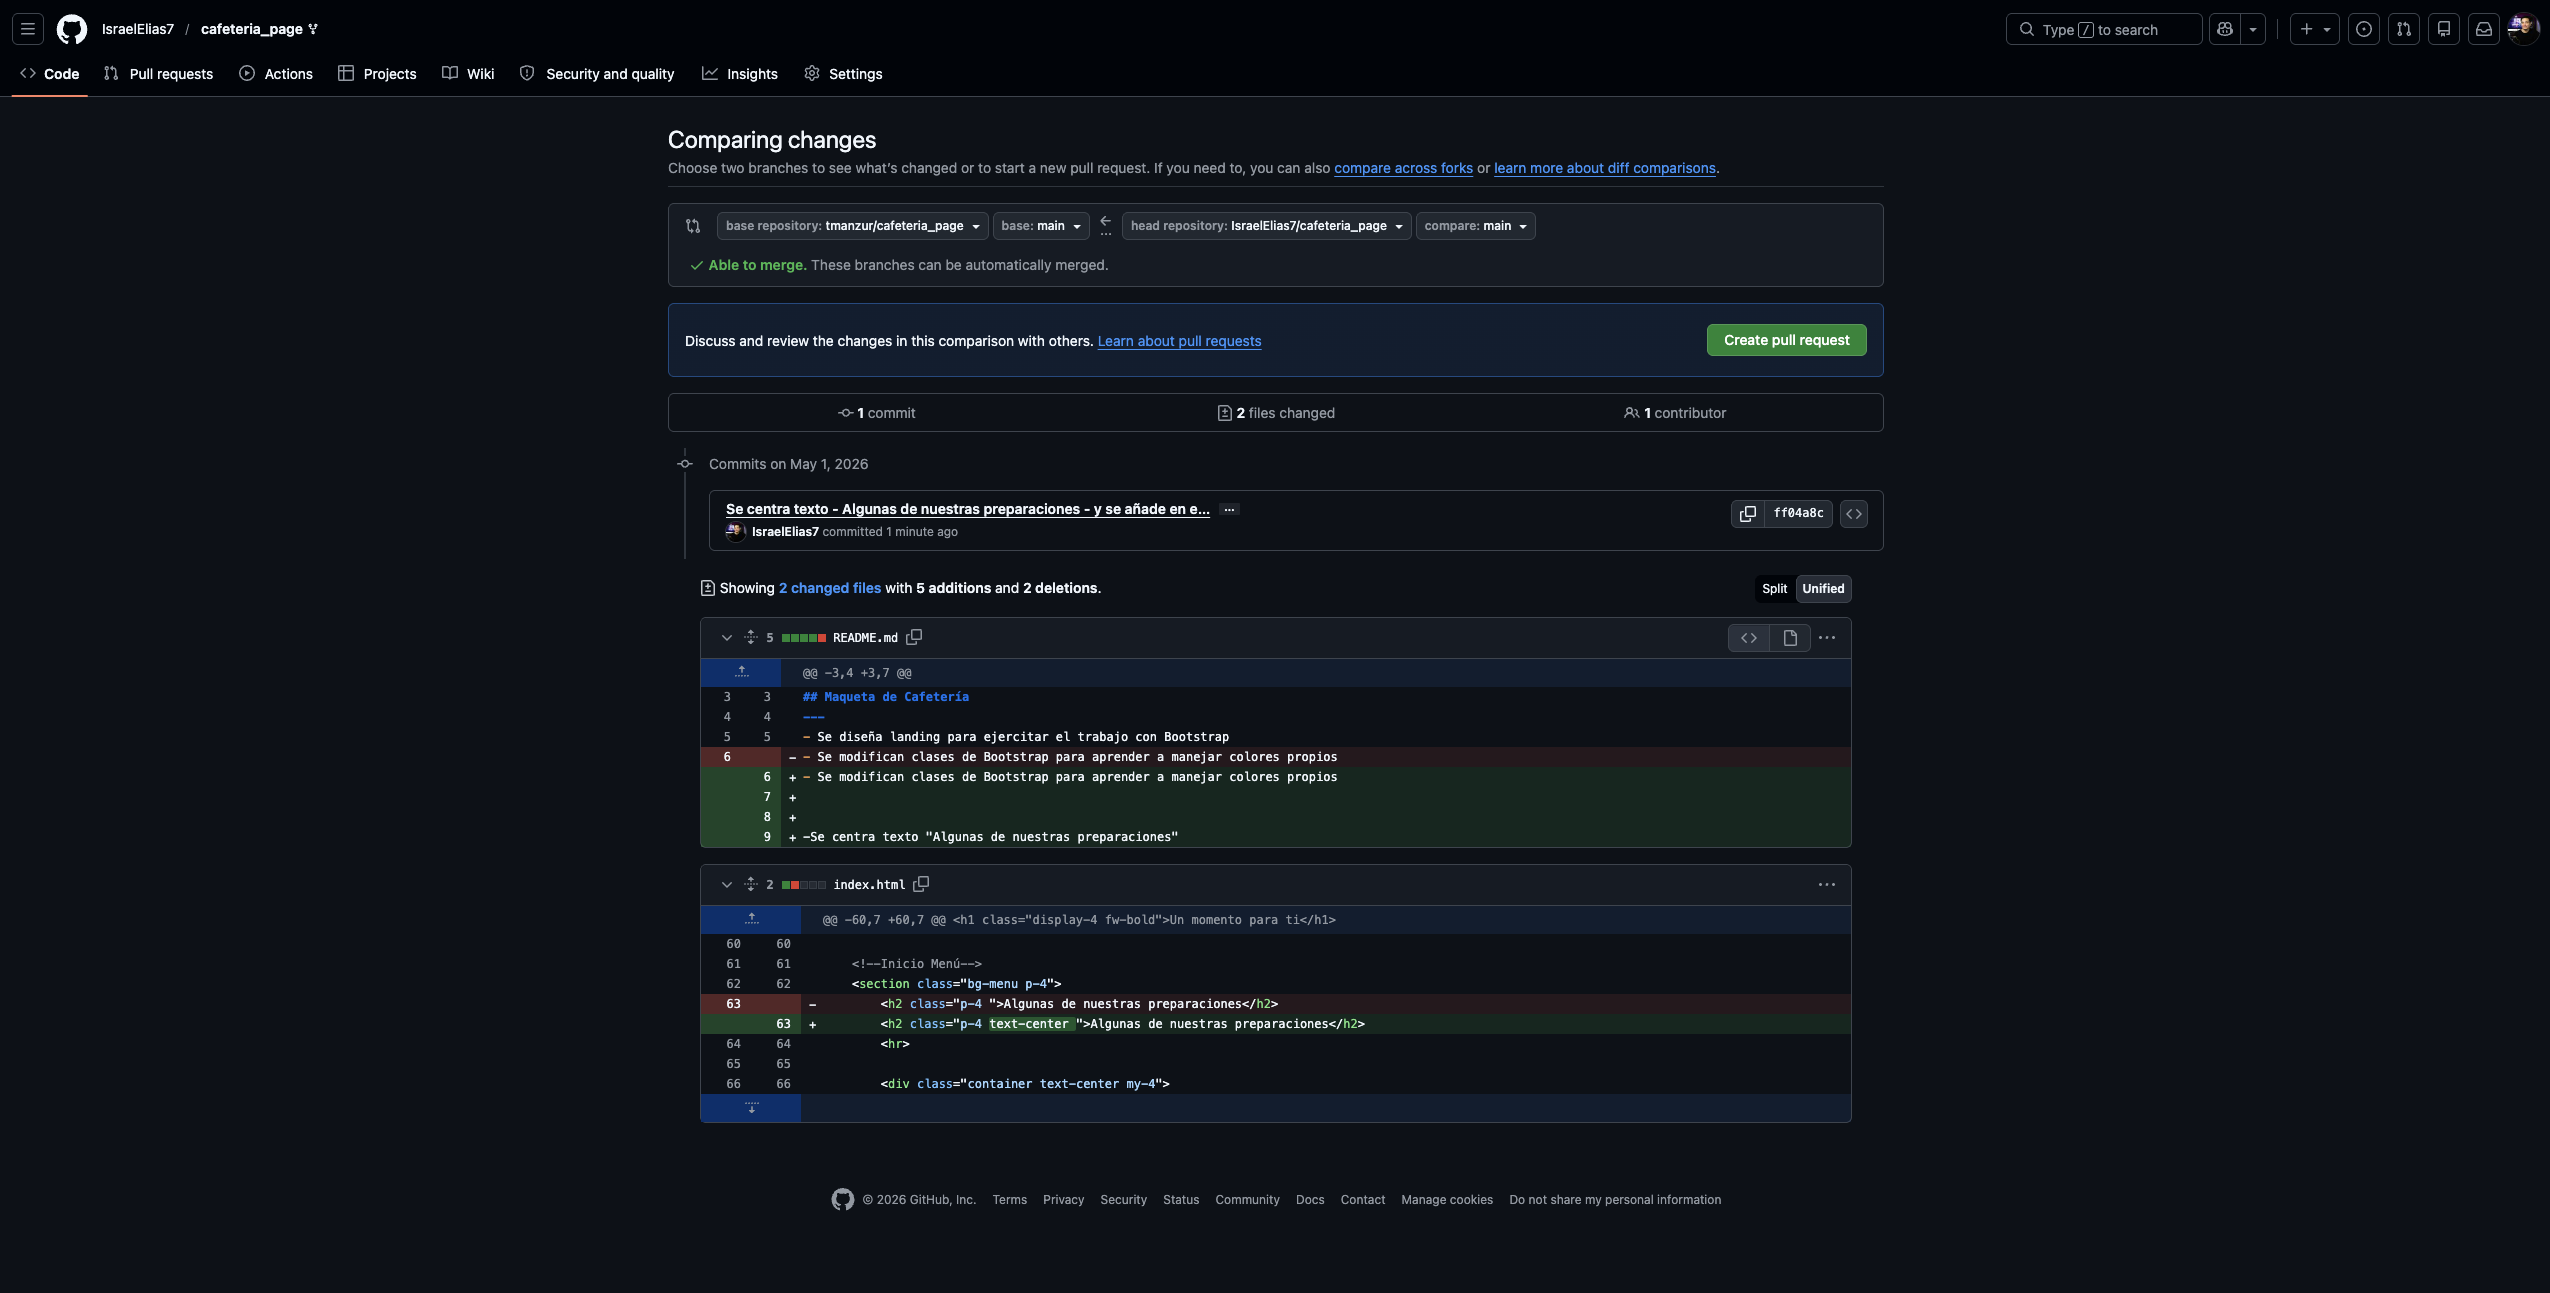
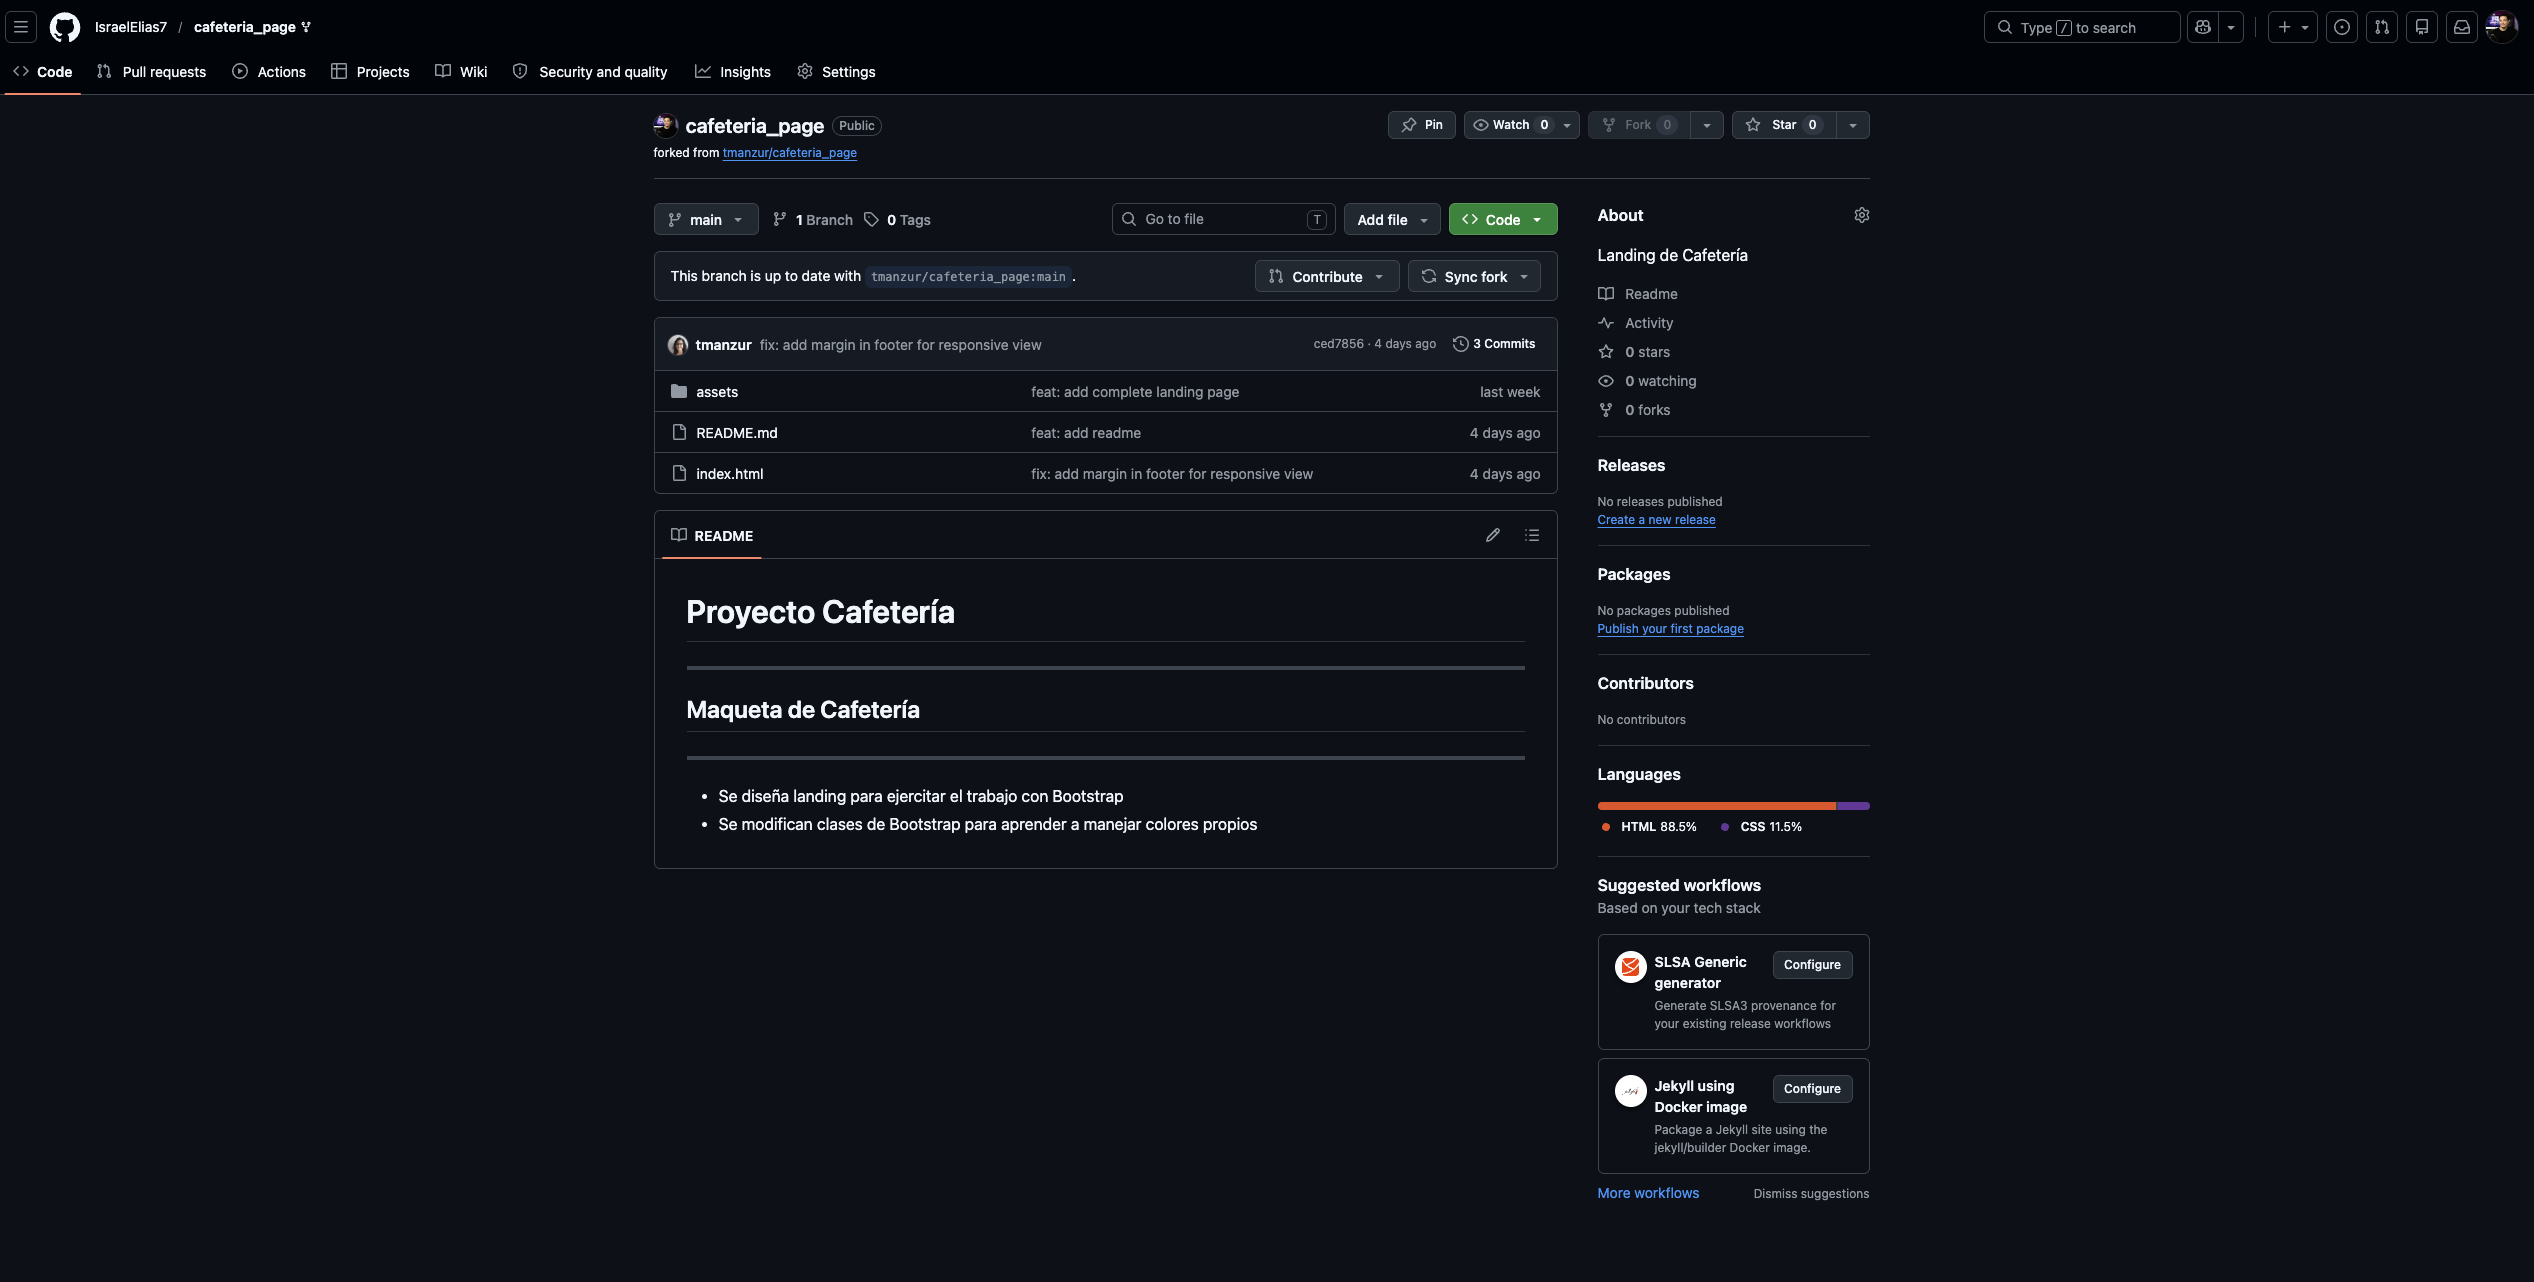
Se agrega evidencia de fork y pull request del segundo compañero

diff --git a/README.md b/README.md
@@ -1,6 +1,8 @@
 #Prueba final de modulo para Desafío LATAM
 Uso de Bootstrap para NavBar y otros
 
+página desplegada: https://israelelias7.github.io/Prueba---Desarrollo-de-portafolio/
+
 Evidencia de colaboración con compañeros:
 
 Se hace Fork y commit de la compañera Tatiana Manzur
@@ -12,3 +14,13 @@ https://github.com/IsraelElias7/cafeteria_page
 ![Evidencia 1](./assets/screenshots/Evidencias/Evidencia%201.png) 
 
 ![Evidencia 2](./assets/screenshots/Evidencias/Evidencia%202.png)
+
+Se hace Fork y commit del compañero Rodrigo García
+https://github.com/Rodgarhel/Rodgarhel.github.io
+
+Se hace pull request desde fork con cambio en línea 233
+https://github.com/IsraelElias7/Rodgarhel.github.io
+
+![Evidencia 3](./assets/screenshots/Evidencias/Evidencia%203.png) 
+
+![Evidencia 4](./assets/screenshots/Evidencias/Evidencia%204.png)